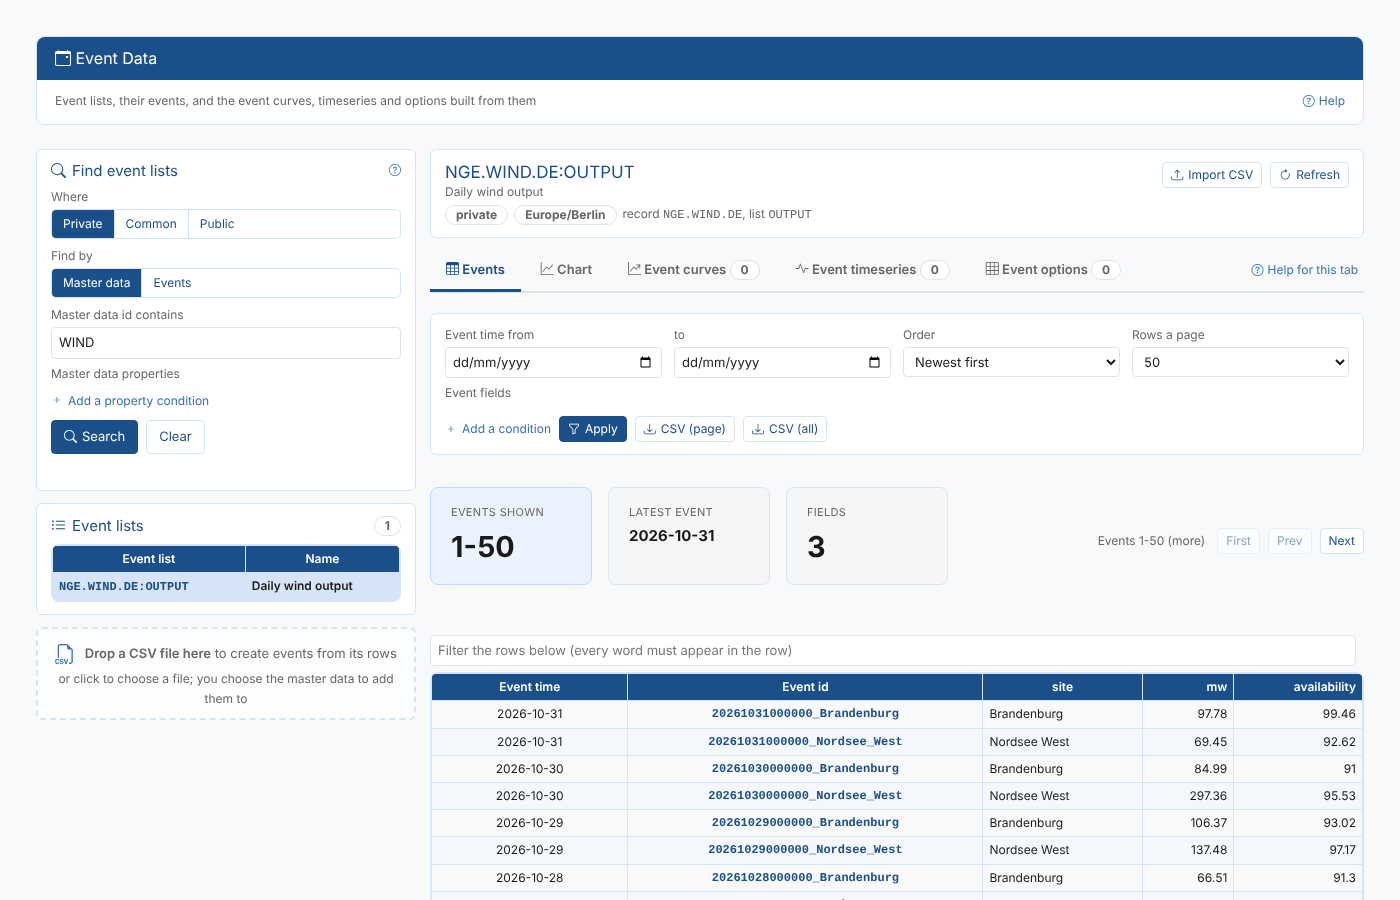
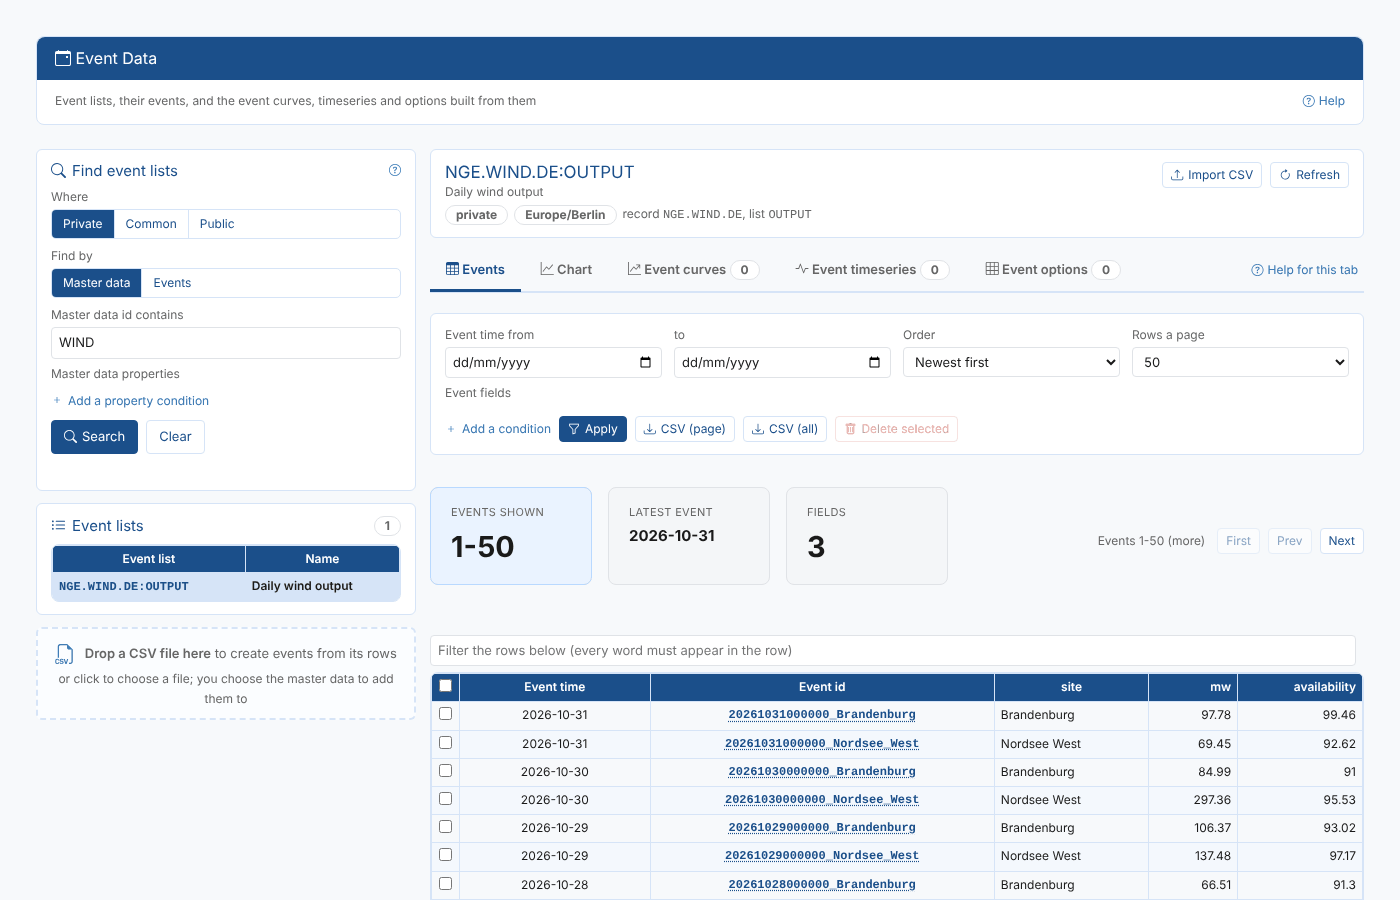
More ETL updates

Changed region(s): [[0.3071, 0.7467, 0.9829, 1.0], [0.5836, 0.4667, 0.6757, 0.4978]]

diff --git a/docs/extensions/etl/05-sources.md b/docs/extensions/etl/05-sources.md
@@ -72,6 +72,7 @@ A value used in a header cannot contain `,`, `;` or `&`: the headers option is s
 | **Separator** | Comma, semicolon, tab, pipe or spaces. |
 | **Header line** | The line with the column names; `0` when there is none. |
 | **Lines to skip after the header** | Lines between the header and the first row. |
+| **Request headers**, **Request body (POST)**, **Body type** | Optional, as for a JSON API. |
 
 Header names keep only their letters and digits (`Trade Date` is `TradeDate`). Values that are plain numbers with a point are read as numbers; others, such as `31,25`, stay text until the mapping converts them.
 
@@ -83,6 +84,7 @@ Header names keep only their letters and digits (`Trade Date` is `TradeDate`). V
 |-|-|
 | **Records path** | Where the list of records is, with dots, e.g. `data.readings`. Empty when the document is the list. |
 | **Request headers** | Optional, as `Name&Value;Name2&Value2`, e.g. `Accept&application/json`. |
+| **Request body (POST)**, **Body type** | Optional: see [Sending a request body](#sending-a-request-body). |
 
 Each record's fields are columns; fields of objects inside it are paths such as `reading.mw`.
 
@@ -98,6 +100,35 @@ Attributes are columns; child elements are paths. The text of an element is its 
 
 ---
 
+## Sending a request body
+
+Some data feeds only answer a POST request with a body, such as a list of the codes you want. CSV, JSON and web page sources can send one: leave **Request body (POST)** empty to read the URL as a web browser does (a GET), or fill it in to send a POST.
+
+![A JSON source that sends a POST with form fields](/img/extensions/etl/post-body.png)
+
+| Body type | Use for | Content-Type sent |
+|-|-|-|
+| **Form fields** | `name=value&name2=value2`, as a web form sends | `application/x-www-form-urlencoded` |
+| **JSON** | A JSON document, such as `{"codes": ["XAUUSD", "XAGUSD"]}` | `application/json` |
+| **Plain text** | Anything else | `text/plain` |
+
+A `Content-Type` in **Request headers** is used instead. The body can use the dates (`{date:yyyy-MM-dd}`, `{previous:yyyyMMdd}`), variables and secrets, as the URL does; in form fields their values are URL-encoded. With sets of variables, one request is sent for each set. Backslashes in the body are taken out by the platform.
+
+### Example: prices a page loads with its scripts
+
+A page of live metal prices fills its tables with a script, so the tables the platform reads are empty. The browser's developer tools (the **Network** tab) show the script calling a data feed: a POST to `https://www.metalsdaily.com/__dta/pd.ashx` with the form field `com=XAUUSD|XAGUSD`, which answers `{"p": [{"a": "XAUUSD", "b": "4068.35", ...}]}`. Read it as a **JSON API**:
+
+| Setting | Value |
+|-|-|
+| **URL** | `https://www.metalsdaily.com/__dta/pd.ashx` |
+| **Records path** | `p` |
+| **Request body (POST)** | `com=XAUUSD\|XAGUSD\|XPTUSD\|XPDUSD` |
+| **Body type** | **Form fields** |
+
+Each code is a row, with the fields `a` (the code), `b` (bid), `c` (ask) and so on. A data feed that a page uses for itself is not a published API: it can change without notice, and the site's terms may limit how its data can be used.
+
+---
+
 ## Table on a web page
 
 For prices published on a web page as an HTML table.
@@ -106,7 +137,8 @@ For prices published on a web page as an HTML table.
 |-|-|
 | **Table** | The table, as a CSS selector such as `div#main > table:nth-of-type(1)`. Select **Show the page and choose the table** to fill it in. |
 | **Header row** | The row of the table with the column names, counting rows of the head, body and foot; `0` when there is none. The data starts on the next row. |
-| **Request headers** | Optional, as for CSV. |
+| **Request headers** | Optional, as for a JSON API. |
+| **Request body (POST)**, **Body type** | Optional: see [Sending a request body](#sending-a-request-body). |
 
 **Show the page and choose the table** opens the page as the platform reads it, without its scripts. Every table is outlined; point at one and click it, or choose it from the list on the right, which says how many rows and columns each has. The selected table's first rows are shown under its selector. **Use this table** fills in the selector.
 
@@ -117,7 +149,7 @@ For prices published on a web page as an HTML table.
 | Good to know | |
 |-|-|
 | Cells | The text of each cell: header cells (`th`) first, then data cells (`td`), for each row. Empty cells give no value. Dots in header names become spaces, and repeated names get a number. |
-| Tables built by scripts | Pages that fill their tables with JavaScript after they load have empty tables (or none) in the page the platform reads. Look for the JSON API the page calls, or use custom ODSL. |
+| Tables built by scripts | Pages that fill their tables with JavaScript after they load have empty tables (or none) in the page the platform reads. Look for the data feed the page calls and read it as a JSON API (often with a [request body](#sending-a-request-body)), or use custom ODSL. |
 | Pages that change | The selector follows the page's structure. If the page is rearranged, a run fails with **No table rows found** and you choose the table again. |
 | Secrets in the URL | The page cannot be shown when its URL needs a secret: type the selector yourself. |
 

diff --git a/docs/extensions/event-data/08-reference.md b/docs/extensions/event-data/08-reference.md
@@ -93,6 +93,8 @@ The list is created with the first events when it does not exist. A dataset id i
 | Definitions of a list | `GET data/v1/private` and `public` with `_filter` on the type and `event` |
 | Save a definition or import events | `POST object/v1/private` with the record id and the property |
 | Delete a definition | `DELETE data/v1/private/ID/*`, then the property is removed from the record |
+| What you may do with a list's events | `GET policy/v1?_function=rights&service=event&key=LIST&source=SOURCE` |
+| Delete an event | `DELETE event/v1/SOURCE/OBJ:LIST:EVENTID/*` (every version) |
 | Built curve or options | `GET data/v1/private/ID` (ondates), then `ID:ONDATE` |
 | Built timeseries | `GET data/v1/private/ID?_range=last(100)` |
 | Tenor history | `GET data/v1/private/ID:TENOR?_range=last(250)` |
@@ -123,6 +125,7 @@ The extension adds three tasks to the [Home page](/docs/extensions/home/overview
 | Use the screens | The feature policy `extension.odsl.event_data`. |
 | See events | Read access to the events; common events only for the datasets your company is licensed for. |
 | Import events and save definitions | Permission to update the master data record. |
+| Delete events | The delete action on the event service in a security policy that covers the events. Common events can normally only be read. |
 
 ---
 
@@ -137,3 +140,5 @@ The extension adds three tasks to the [Home page](/docs/extensions/home/overview
 | **The filter must be a JSON object** | Write the filter as JSON with quoted names, for example `{"site": "Nordsee West"}`. |
 | A save or import fails | The message after **Request failed** is the platform's reason, for example a missing permission on the record. |
 | Imported rows replace each other | The event ids are the same: tick more columns under **Event id**. |
+| No tick boxes on the Events tab | You may not delete this list's events, or they are common events. |
+| Some events were not deleted | Your delete rights do not cover them; the message gives the platform's reason. |

diff --git a/docs/extensions/event-data/03-events.md b/docs/extensions/event-data/03-events.md
@@ -68,6 +68,32 @@ The file has the columns `event`, `eventid`, `eventtime`, `eventstart`, `eventen
 
 ---
 
+## Deleting events
+
+When you are allowed to delete a list's events, the Events tab has a tick box at the start of each row and a **Delete selected** button. The platform decides: Event Data asks it what you may do with the list's events when the list opens, and shows neither when you may not delete them. Common events can normally only be read.
+
+| Control | What it does |
+|-|-|
+| The tick box on a row | Picks that event. Picked rows are shaded. |
+| The tick box in the header | Picks every row shown, or none. With the row filter on, only the rows it shows. |
+| **Delete N events** | Asks first, listing the events, then deletes each one with every earlier version of it. |
+
+Priya picks two broker quotes that were sent by mistake.
+
+![Two broker quotes picked to be deleted](/img/extensions/event-data/events-delete.png)
+
+![Confirming the delete](/img/extensions/event-data/delete-confirm.png)
+
+The events are deleted a few at a time, with a progress bar and a **Stop** button. The platform checks your delete rights on each event, so an event you may not delete is left and reported with the platform's reason, while the others are deleted. The page is then read again.
+
+:::caution
+A delete cannot be undone. Event curves, event timeseries and event options built from the list leave out the deleted events from then on; a build stored earlier keeps them until it is built again.
+:::
+
+The picked events are forgotten when you change page or apply filters: delete one page at a time.
+
+---
+
 ## Charting events
 
 The **Chart** tab draws one number field of the events over time.

diff --git a/docs/extensions/event-data/04-importing.md b/docs/extensions/event-data/04-importing.md
@@ -109,7 +109,7 @@ An event saved with the same id as one already in the list replaces it. So when 
 | A column with a unique id | One event per id, updated when the file is imported again. |
 
 :::caution
-Events are not removed by an import. To take readings out of a list, delete the events on the platform.
+Events are not removed by an import. To take readings out of a list, [delete them on the Events tab](/docs/extensions/event-data/events#deleting-events).
 :::
 
 ---
